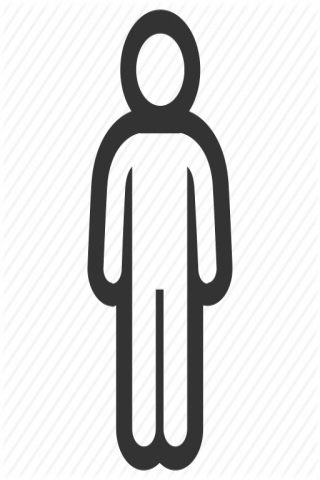
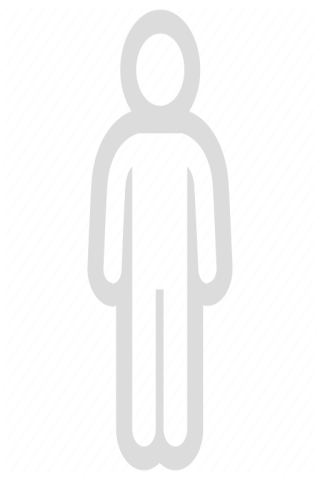
그림 'human' 색상 변경, analysis 오류 수정 및 디자인 변경, device 변경, monitoring 변경, profile 크기 변경

Changed region(s): [[0.25, 0.0, 0.75, 1.0]]

diff --git a/BackEnd/templates/connseed/analysis.html b/BackEnd/templates/connseed/analysis.html
@@ -263,7 +263,7 @@
 
         jQuery(document).ready(function ($) {
             $.ajax({
-                url: "http://169.56.126.151/data/getstatisticaldata_day?device=1&date=2017-07-28",
+                url: "http://169.56.126.151/data/getstatisticaldata_day?device=2&date=2017-07-28",
                 dataType: "json",
                 type: "GET",
                 json: "callback",
@@ -291,47 +291,47 @@
         // Some raw data (not necessarily accurate)
         var data1 = google.visualization.arrayToDataTable([
             ['날짜', '온도'],
-            ['2017/07/05',  TEMarray[4]],
-            ['2017/07/06',  TEMarray[3]],
-            ['2017/07/07',  TEMarray[2]],
-            ['2017/07/08',  TEMarray[1]],
-            ['2017/07/09',  TEMarray[0]]
+            ['7/24',  TEMarray[4]],
+            ['7/25',  TEMarray[3]],
+            ['7/26',  TEMarray[2]],
+            ['7/27',  TEMarray[1]],
+            ['7/28',  TEMarray[0]]
         ]);
 
         var data2 = google.visualization.arrayToDataTable([
             ['날짜', '습도'],
-            ['2017/07/05', HUMarray[4]],
-            ['2017/07/06', HUMarray[3]],
-            ['2017/07/07', HUMarray[2]],
-            ['2017/07/08', HUMarray[1]],
-            ['2017/07/09', HUMarray[0]]
+            ['7/24', HUMarray[4]],
+            ['7/25', HUMarray[3]],
+            ['7/26', HUMarray[2]],
+            ['7/27', HUMarray[1]],
+            ['7/28', HUMarray[0]]
         ]);
 
         var data3 = google.visualization.arrayToDataTable([
             ['날짜', '수분량'],
-            ['2017/07/05', WTRarray[4]],
-            ['2017/07/06', WTRarray[3]],
-            ['2017/07/07', WTRarray[2]],
-            ['2017/07/08', WTRarray[1]],
-            ['2017/07/09', WTRarray[0]]
+            ['7/24', WTRarray[4]],
+            ['7/25', WTRarray[3]],
+            ['7/26', WTRarray[2]],
+            ['7/27', WTRarray[1]],
+            ['7/28', WTRarray[0]]
         ]);
 
         var data4 = google.visualization.arrayToDataTable([
             ['날짜', '광량'],
-            ['2017/07/05', LUXarray[4]],
-            ['2017/07/06', LUXarray[3]],
-            ['2017/07/07', LUXarray[2]],
-            ['2017/07/08', LUXarray[1]],
-            ['2017/07/09', LUXarray[0]]
+            ['7/24', LUXarray[4]],
+            ['7/25', LUXarray[3]],
+            ['7/26', LUXarray[2]],
+            ['7/27', LUXarray[1]],
+            ['7/28', LUXarray[0]]
         ]);
 
         var data5 = google.visualization.arrayToDataTable([
             ['날짜', '유해물질 농도'],
-            ['2017/07/05', PPMarray[4]],
-            ['2017/07/06', PPMarray[3]],
-            ['2017/07/07', PPMarray[2]],
-            ['2017/07/08', PPMarray[1]],
-            ['2017/07/09', PPMarray[0]]
+            ['7/24', PPMarray[4]],
+            ['7/25', PPMarray[3]],
+            ['7/26', PPMarray[2]],
+            ['7/27', PPMarray[1]],
+            ['7/28', PPMarray[0]]
         ]);
 
          var option1 = {

diff --git a/BackEnd/templates/connseed/profile.html b/BackEnd/templates/connseed/profile.html
@@ -43,7 +43,7 @@
         .devcard {
             background:rgba(25, 25, 20, 0.7);
             width:1300px;
-            height:400px;
+            height:250px;
             margin:20px;
         }
     </style>
@@ -90,8 +90,8 @@
                         <h1 style="font-size:50px; color:white">Account Settings</h1>
                         <p style="font-size:30px; color:white">현재 고객의 대한 정보입니다.</pstyle="font-size:30px;>
                         <div class="devcard">
-                             <img src="static/human.png" width=110 height=250 style="margin:50px 70px; float:left" />
-                             <div style="width:80%; height:85%; float:left; margin-top:25px; border-left:5px solid white">
+                             <img src="static/human.png" width=110 height=150 style="margin:50px 70px; float:left" />
+                             <div style="width:80%; height:85%; float:left; margin-top:20px; border-left:5px solid white">
                                  <h1 id="CLIENT" style="color:white; margin-left:5%">사용자 : Haryun</h1>
                                  <h2 id="NUMBER" style="color:white; margin-left:5%">현재 가지고 계신 Connseed 개수 : 4</h2>
                                  <h2 id="CROP" style="color:white; margin-left:5%">현재 심은 작물 : Hot_Pepper</h2>

diff --git a/BackEnd/templates/connseed/monitoring.html b/BackEnd/templates/connseed/monitoring.html
@@ -229,7 +229,7 @@
     <script>
         jQuery(document).ready(function ($){
             $.ajax({
-                url: "http://127.0.0.1:8000/data/getcurrentdata?device=2",
+                url: "http://169.56.126.151/data/getcurrentdata?device=2",
                 dataType: "json",
                 type: "GET",
                 json: "callback",

diff --git a/BackEnd/templates/connseed/device.html b/BackEnd/templates/connseed/device.html
@@ -197,7 +197,7 @@
     <script>
         jQuery(document).ready(function ($){
             $.ajax({
-                url: "http://127.0.0.1:8000/data/devicelist",
+                url: "http://169.56.126.151//data/devicelist",
                 dataType: "json",
                 type: "GET",
                 json: "callback",
